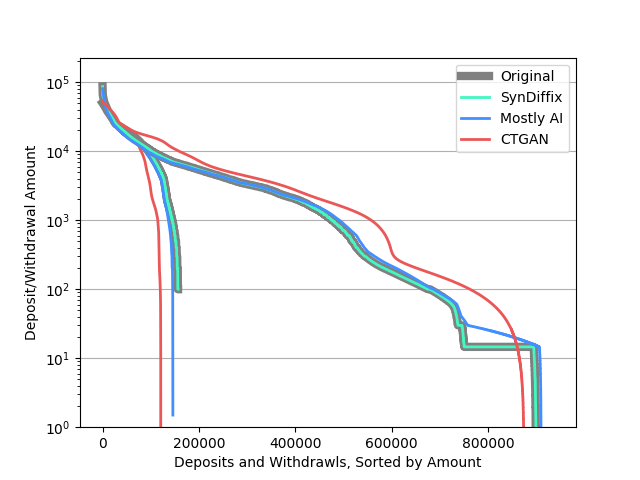
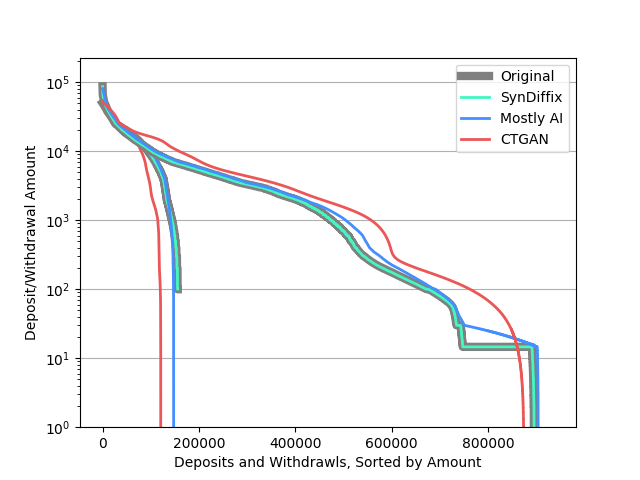
Update Mostly AI data with correct linked tables

Changed region(s): [[0.1562, 0.2188, 0.6562, 0.875], [0.6562, 0.5938, 0.875, 0.9062]]

diff --git a/_pages/syndiffix-mostlyai-ctgan.md b/_pages/syndiffix-mostlyai-ctgan.md
@@ -12,6 +12,22 @@ For this comparison, we use the [Czech banking dataset](https://data.world/lpetr
 
 The code for some of the following examples can be found [here](https://github.com/diffix/syndiffix/blob/main/docs/time-series.ipynb).
 
+## Average account balance by type of credit card
+
+892 of the 4500 bank accounts have credit cards. There are three classes of card, 'junior', 'classic', and 'gold'. Here we ask the question, "Does the average account balance differ based on the credit card class?"
+
+The following graphs are percentile boxplots (100th, 75th, 50th, 25th, and 0th percentiles, plus outliers) of the average account balance for each account with a credit card. The two plots show the same data, but grouped by synthesis method on the left, and by card type on the right.
+
+{% include image.html src="/assets/img/trans_account_card_clients.avg_balance.card_type.png" alt="SynDiffix usage style" max_width="650px" %}
+
+The SynDiffix synthetic data was produced by first computing the average balance per account from the original data to produce a two-column table consisting of the `avg_balance` and the `card_type`, with one row per account (i.e. not time-series data). This two-column table was then synthesized.
+
+From the original data, we see that indeed gold credit card holders have higher average account balances than classic card holders, which in turn are a little higher than junior card holders. The data for SynDiffix is very close to the original data, and accurately shows the same trend. The high and low values are pulled in a little bit, which is due to SynDiffix' tendency to hide outlier values.
+
+Mostly AI also shows the same trend, and the median account balances track the original data very closely. In contrast to SynDiffix, the high and low account balances tend to be spread out.
+
+While CTGAN shows the median account balance to be slightly higher for gold card holders, overall it does not capture the trend. Its high and low values are extreme, in some cases showing negative balances where none should exist.
+
 ## Distribution of deposit and withdrawal amounts
 
 There are five types of transaction operations. One of them represents deposits (VKLAD), while the other four represent different types of withdrawals (at least as near as we can tell from the Czech translations).
@@ -28,15 +44,15 @@ For withdrawals, Mostly AI tracks the original data very well until the lower ri
 
 ## Total transaction volume per month
 
-The following plot shows the total transaction volume (sum of all transaction amounts) for each month. The two smaller plots zoom in on the two boxed areas.
+The following plot shows the total transaction volume (sum of all transaction amounts) for each month.
 
-{% include image.html src="/assets/img/trans_account_card_clients.amount.month.grid.png" alt="SynDiffix usage style" max_width="600px" %}
+{% include image.html src="/assets/img/trans_account_card_clients.amount.month.png" alt="SynDiffix usage style" max_width="400px" %}
 
 The SynDiffix data was produced by rounding the transaction date to the month, and then producing a two-column table with `month` and `amount`. This table was then synthesized.
 
-Once again, the SynDiffix line tracks the original data almost perfectly. The zoom-in plots show a very slight difference from the original data.
+Once again, the SynDiffix line tracks the original data almost perfectly.
 
-Mostly AI tracks the original data quite well until the last year, where it diverges substantially. The two zoom-in boxes show that even where Mostly AI tracks well, it is still substantially less accurate than SynDiffix. The CTGAN line manages to show the correct upward trend, but otherwise is quite inaccurate.
+While both the Mostly AI and CTGAN transactions have the right increasing trend, both are quite inaccurate.
 
 ## Distribution of maximum balance for all accounts
 
